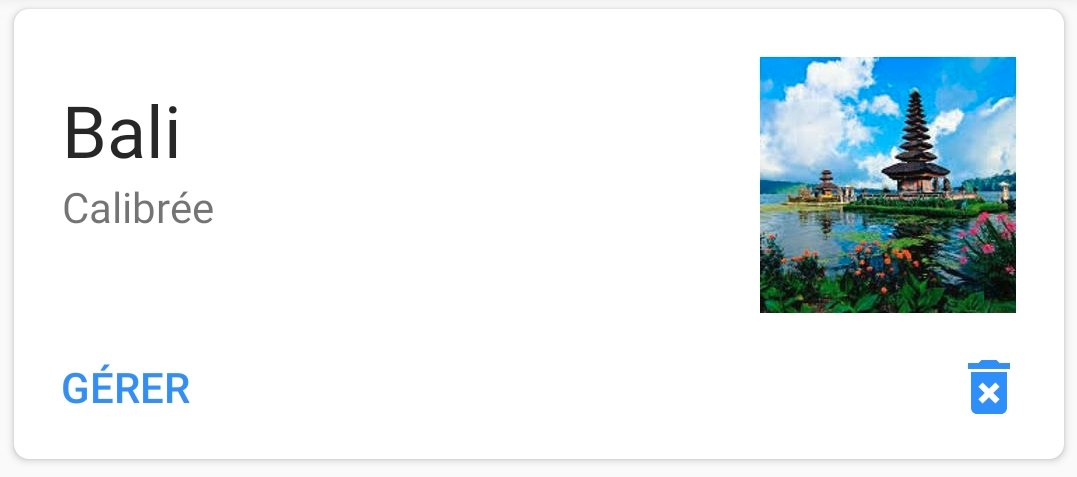
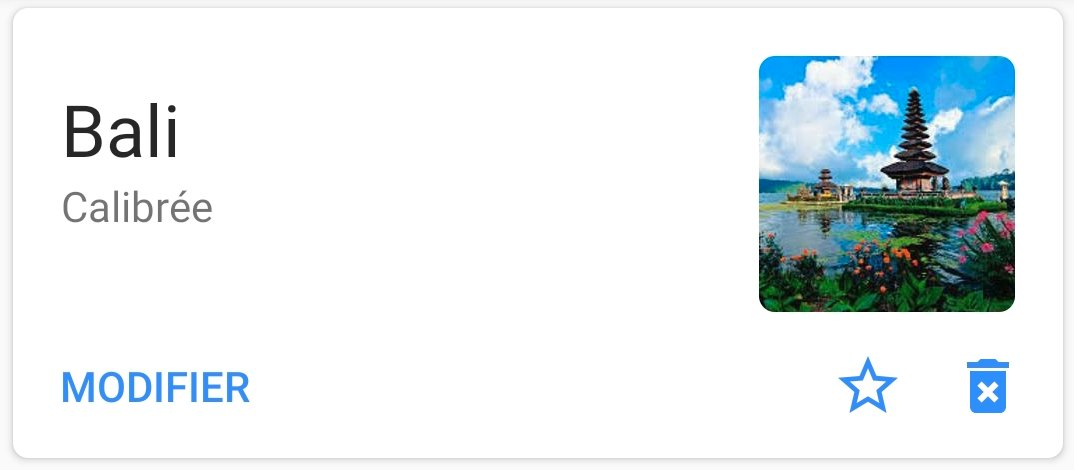
Update Readme

diff --git a/Readme.fr.md b/Readme.fr.md
@@ -215,7 +215,7 @@ C'est une option en haut à droite alors qu'une carte est affichée.
 La vitesse s'affiche en km/h au bout de quelques secondes.
 
 <p align="center">
-<img src="doc/tuto/menu-map-view-highlight.jpg" width="300">
+<img src="doc/tuto/speed.jpg" width="300">
 </p>
 
 Selon la taille de votre écran, un bouton peut rendre cette fonctionnalité directement accessible.
@@ -395,12 +395,10 @@ Par défaut, TrekMe enregistre tout sur la mémoire interne. Mais si vous avez u
 
 **Attention**
 
-Toutes les cartes stockées sur carte SD seront supprimées si TrekMe est désinstallée (c'est une 
-contrainte du système Android). La seule manière de conserver de manière sûre vos cartes est d'utiliser
- la mémoire interne.
- 
-Cependant, vous pouvez contourner cette limitation : faites une sauvegarde, puis déplacez l'archive 
-zip créée quelque part sur votre carte SD (dans un autre dossier que le dossier Android).
+Quelque soit la version d'Android, toutes les cartes stockées sur carte SD seront supprimées si TrekMe est 
+désinstallé (c'est une contrainte du système Android). 
+Reportez-vous à la section [Sauvegardez vos cartes](#TOC-Save-maps) pour voir comment contourner cette
+contrainte.
 
 Dans la section Téléchargment > "Répertoire de téléchargement", vous avez le choix entre deux répertoires
  si vous avez une carte SD. Sinon, vous n'avez d'autre choix que d'utiliser la mémoire interne.
@@ -449,7 +447,7 @@ A partir d'Android 10, toutes les cartes (qu'elles soient sur mémoire interne o
 si TrekMe est désinstallé. Il vous est donc fortement conseillé d'utiliser la fonctionnalité de sauvegarde
 intégrée à TrekMe. Cela vous permettra de restaurer vos cartes si vous changez de téléphone par exemple.
 
-Pour créer une archive, depuis la liste des cartes, utilisez le bouton "GERER", en bas à gauche :
+Pour créer une archive, depuis la liste des cartes, utilisez le bouton "MODIFIER", en bas à gauche :
 
 <p align="center">
 <img src="doc/tuto/bali-fr.jpg" width="300">
@@ -463,6 +461,17 @@ Si vous continuez la procédure, l'archive va être créée et vous pouvez suivr
 zone de notification du téléphone.
 
 Une archive contient tout ce qui est relatif à la carte (calibration, traces, points d'intérêt, etc).
+
+Les archives, tout comme les cartes, sont créées dans un dossier que le système Android alloue à
+TrekMe. Si vous avez une carte SD, vous avez même le choix entre deux dossiers différents. Mais ces
+dossiers seront supprimés en cas de désinstallation de l'application. Il y a cependant une exception :
+le dossier qu'utilise TrekMe sur la mémoire interne sous Android 9 et moins. Ce dossier-là n'est pas
+supprimé en cas de désinstallation.
+
+Pour tous les autres cas, la seule manière de conserver de manière sûre vos cartes est de faire des 
+sauvegardes, puis de les déplacer dans un dossier nommé (par exemple) "TrekMe_sauvegardes" 
+quelque-part sur votre carte SD ou dans la mémoire interne. 
+Ce dossier ne doit pas être un sous-dossier du répertoire utilisé par TrekMe.
 
 ### <a name="TOC-Share-maps"></a>Partage de carte
 

diff --git a/Readme.md b/Readme.md
@@ -415,6 +415,15 @@ device.
 
 An archive contains everything related to the map (calibration, routes, points of interest, etc.).
 
+Just like maps, archives are stored on a dedicated folder which you choose in the settings of the
+application. Beware that if you uninstall TrekMe, those folders and their content (including maps
+and archives) will be **permanently deleted**. There's an exception though. If you have Android 9 or
+lower, the folder on the internal storage won't be removed.
+
+In other cases, the only reliable way to keep your archives safe is to move them to a secure location.
+For example, it could be a folder named "TrekMe_backup" somewhere on your SD card or internal
+storage. That folder shouldn't be a subfolder of the folder(s) used by TrekMe. 
+
 ### <a name="TOC-Share-maps"></a>Map sharing
 
 A map is sometimes heavy and takes quite some time to download. When a friend also has TrekMe, it's
